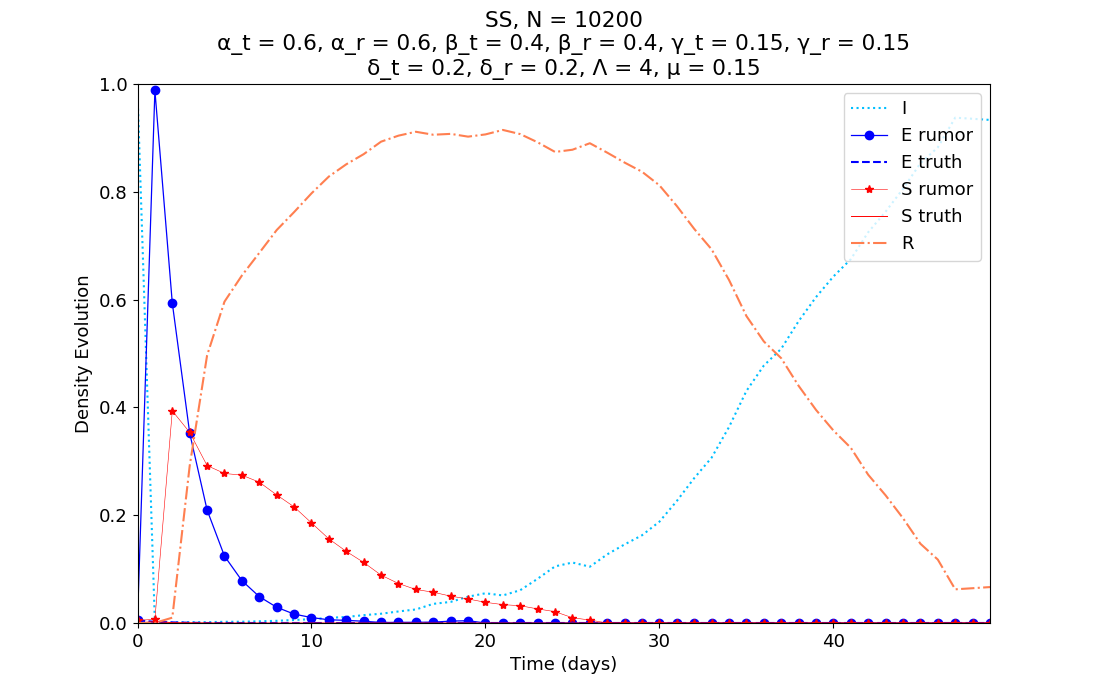
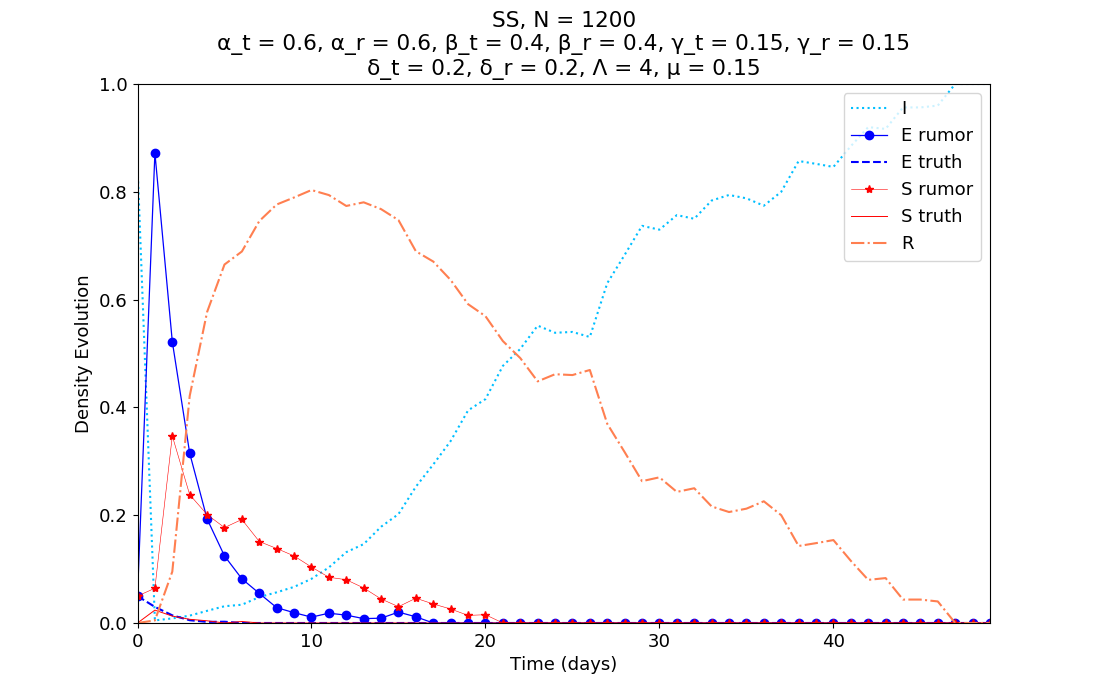
Ran simulations for complete graphs

diff --git a/src/main.py b/src/main.py
@@ -42,6 +42,9 @@ class ES_Params:
         self.er_init = er_init
     modeltype = 'ES'
 
+    def __str__(self):
+        return str(self.birth) + ", " + str(self.death) + ", " + str(self.alpha_t) + ", " + str(self.alpha_r) + ", " + str(self.beta_t) + ", " + str(self.beta_r) + ", " + str(self.gamma_t) + ", " + str(self.gamma_r) + ", " + str(self.epsilon_t) + ", " + str(self.epsilon_r) + ", " + str(self.st_init) + ", " + str(self.sr_init) + ", " + str(self.et_init) + ", " + str(self.er_init)
+
 class SS_Params:
     def __init__(self, birth, death, alpha_t, beta_t, gamma_t, 
                                     alpha_r, beta_r, gamma_r, 
@@ -62,6 +65,9 @@ class SS_Params:
         self.et_init = et_init
         self.er_init = er_init
     modeltype = 'SS'
+
+    def __str__(self):
+        return str(self.birth) + ", " + str(self.death) + ", " + str(self.alpha_t) + ", " + str(self.alpha_r) + ", " + str(self.beta_t) + ", " + str(self.beta_r) + ", " + str(self.gamma_t) + ", " + str(self.gamma_r) + ", " + str(self.st_init) + ", " + str(self.sr_init) + ", " + str(self.et_init) + ", " + str(self.er_init)
 
 
 def reset(G):
@@ -580,7 +586,7 @@ def draw_network_to_file(G,pos,t):
     plt.savefig("video_of_spread/image"+str(t)+".png")
     plt.clf()
 
-def saveResultsToFile(I, Er, Et, Sr, St, R, G, params, graphType, fileName):
+def saveResultsToFile(I, Er, Et, Sr, St, R, params, graphType, fileName):
     resultsFile = open('../outputs/' + str(graphType) + '_' + str(fileName) + '.json', 'w+')
     results = []
     results.append({
@@ -590,7 +596,6 @@ def saveResultsToFile(I, Er, Et, Sr, St, R, G, params, graphType, fileName):
         "Sr": Sr,
         "St": St,
         "R": R,
-        "G": G,
         "params": params
     })
     json.dump(results, resultsFile)
@@ -621,27 +626,27 @@ ES parameters(Lambda, mu,
 
 #uncomment the type of simulation to run, either SS or ES
 
-params = SS_Params(4,0.15,
-                   0.6,0.4,0.15,
-                   0.6,0.4,0.15,
-                   0.2,0.2,
-                   50, 50, 50, 50)
-m = spread_model_factory_SS(params)
-#params = ES_Params(4,0.15,
-#                  0.6,0.4,0.15,
-#                  0.6,0.4,0.15,
-#                  0.2,0.2,
-#                  50, 50, 50, 50)
-#m = spread_model_factory_ES(params)
+# params = SS_Params(4,0.15,
+#                    0.6,0.4,0.15,
+#                    0.6,0.4,0.15,
+#                    0.2,0.2,
+#                    50, 50, 50, 50)
+# m = spread_model_factory_SS(params)
+params = ES_Params(4,0.15,
+                 0.6,0.4,0.15,
+                 0.6,0.4,0.15,
+                 0.2,0.2,
+                 50, 50, 50, 50)
+m = spread_model_factory_ES(params)
 
 #uncomment the method of initializing exposed, and spreaders
-# initialise_rumor_random(nw, params.sr_init, params.st_init, params.er_init, params.et_init) #random selection of spreaders and exposed
-initialise_truth_degree(nw, params.sr_init, params.st_init, params.er_init, params.et_init) #highest degree as spreaders of truth
+initialise_rumor_random(nw, params.sr_init, params.st_init, params.er_init, params.et_init) #random selection of spreaders and exposed
+# initialise_truth_degree(nw, params.sr_init, params.st_init, params.er_init, params.et_init) #highest degree as spreaders of truth
 # initialise_rumor_degree(nw, params.sr_init, params.st_init, params.er_init, params.et_init) #highest degree as spreaders of rumor
 # initialise_truth_betweenness(nw, params.sr_init, params.st_init, params.er_init, params.et_init) #highest betweenness centrality as spreaders of truth
 # initialise_rumor_betweenness(nw, params.sr_init, params.st_init, params.er_init, params.et_init) #highest betweenness centrality as spreaders of rumor
 
 #run simulation and show graph
 I, Er, Et, Sr, St, R, endtime = run_spread_simulation(nw, m, params)
-plot_infection(I, Er, Et, Sr, St, R, nw, params, "SS_Truth_Degree")
-saveResultsToFile(I, Er, Et, Sr, St, R, nw, params, "completeG", "SS_Truth_Degree")
+plot_infection(I, Er, Et, Sr, St, R, nw, params, "ES_Rumor_Random")
+saveResultsToFile(I, Er, Et, Sr, St, R, str(params), "completeG", "ES_Rumor_Random")
